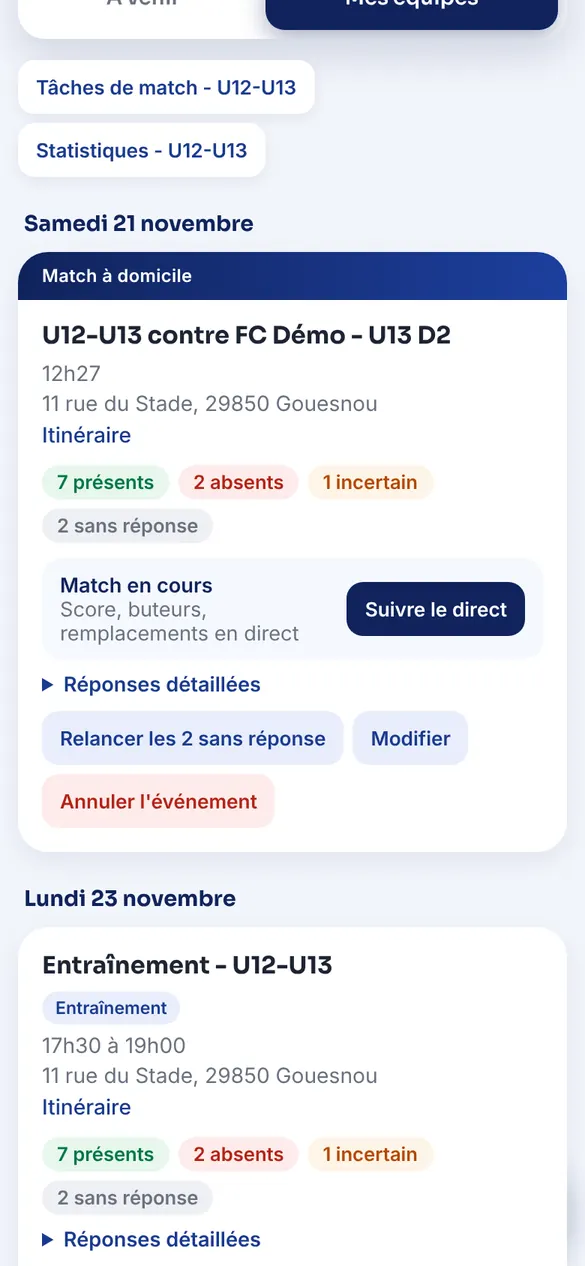
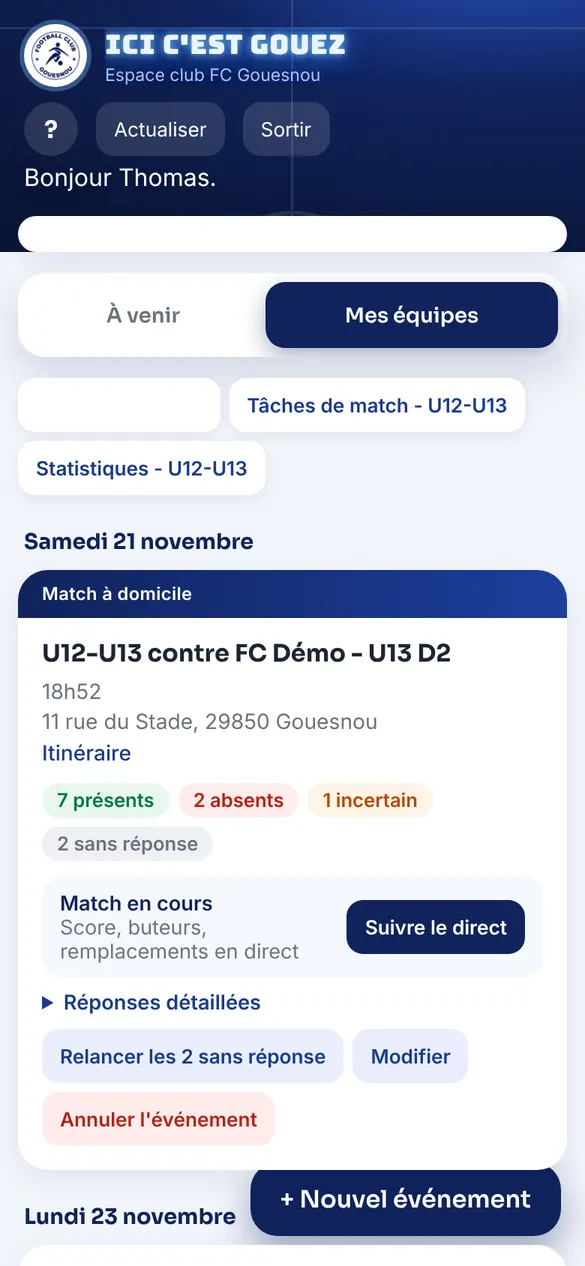
Espace club 0.37 : bouton « Matchs passés » (direct, photos et composition des matchs joués)
Claude-Session: https://claude.ai/code/session_01PpbBN6aLHnCFJhN9CD4hve

diff --git a/espace/index.html b/espace/index.html
@@ -6,7 +6,8 @@
          réponses aux convocations, vue coach (création d'événements, suivi des réponses,
          composition des équipes A, B, C d'une journée), application installable et notifications
   Fichiers liés : espace/partenaires.js, espace/attestations.js, espace/manifest.webmanifest, espace/sw.js, espace/icone-*.png
-  Version : 0.36 - 21/11/2026 - modules chargés à la demande : Partenaires et Attestations seulement pour les rôles concernés, aide et direct au premier usage
+  Version : 0.37 - 21/11/2026 - bouton « Matchs passés » (À venir et Mes équipes) : direct, photos et composition des matchs déjà joués
+            0.36 - 21/11/2026 - modules chargés à la demande : Partenaires et Attestations seulement pour les rôles concernés, aide et direct au premier usage
             0.35 - 21/11/2026 - photos du match (bouton « 📷 Photos » du direct) : dépôt par l'équipe, validation par l'encadrement
             0.34.1 - 21/11/2026 - iPhone : plus de zoom automatique en touchant un champ (écran trop large après une saisie)
             0.34 - 21/11/2026 - aide illustrée : captures d'écran dans les rubriques, agrandissables
@@ -688,7 +689,7 @@
     import { createClient } from 'https://cdn.jsdelivr.net/npm/@supabase/supabase-js@2/+esm';
     // Modules chargés à la demande (seulement pour les rôles concernés, ou au premier usage) :
     // un parent ne télécharge jamais les modules Partenaires et Attestations.
-    const MODULES = { partenaires: './partenaires.js?v=2.2', attestations: './attestations.js?v=1.1', aide: './aide.js?v=1.7', match: './match.js?v=1.2' };
+    const MODULES = { partenaires: './partenaires.js?v=2.2', attestations: './attestations.js?v=1.1', aide: './aide.js?v=1.8', match: './match.js?v=1.2' };
     const ROLES_PARTENAIRES = ['admin', 'codir', 'partenaires', 'secretariat', 'finances'];
     const ROLES_ATTESTATIONS = ['admin', 'finances', 'secretariat'];
 
@@ -699,7 +700,7 @@
     const PAGE_CONTACT = 'https://fcgouesnou.github.io/#contact';
     const FUSEAU = 'Europe/Paris';
     // Version de l'application : à changer ici ET dans espace/version.json à chaque publication
-    const VERSION_APPLI = '0.36';
+    const VERSION_APPLI = '0.37';
 
     const sbReel = createClient(SUPABASE_URL, SUPABASE_CLE, {
       auth: { flowType: 'pkce', detectSessionInUrl: true, persistSession: true }
@@ -1605,6 +1606,7 @@
       const mesEvt = new Set(E.convocations.map(c => c.evenement_id));
       const liste = E.evenements.filter(aVenir).filter(e => mesEvt.has(e.id) || (E.coachees.has(e.equipe_id) && E.miennes.has(e.equipe_id)));
       if (!E.fiches.length) { zone.append(el('p', { class: 'vide' }, "Votre compte n'est relié à aucune fiche du club. Contactez-nous par la rubrique « Nous contacter » du site.")); return; }
+      if (E.miennes.size || E.coachees.size) zone.append(el('div', { class: 'taches-equipes' }, boutonMatchsPasses()));
       if (!liste.length) { zone.append(el('p', { class: 'vide' }, 'Aucun événement à venir pour le moment.')); return; }
       // Le prochain match (non annulé) est mis en vedette, puis retiré de la liste
       const prochain = liste.find(e => estMatch(e) && e.etat !== 'annule' && (new Date(e.debut) > new Date(Date.now() - 2 * 3600 * 1000) || (sansHeure(e) && cleJour(e.debut) === cleJour(new Date()))));
@@ -1620,6 +1622,34 @@
       }
     }
 
+    // ---------- Matchs passés : direct, photos et score des matchs déjà joués (120 derniers jours) ----------
+    function boutonMatchsPasses() {
+      return el('button', { class: 'mini principal', onclick: ouvrirMatchsPasses }, '⏮ Matchs passés');
+    }
+    async function ouvrirMatchsPasses() {
+      const ids = [...new Set([...E.miennes, ...E.coachees])];
+      const depuis = new Date(Date.now() - 120 * 86400 * 1000).toISOString();
+      const { data, error } = await sb.from('evenements').select('id, debut, equipe_id, adversaire, domicile, titre, type, etat')
+        .in('equipe_id', ids).in('type', ['match', 'tournoi']).neq('etat', 'annule')
+        .gte('debut', depuis).lt('debut', new Date().toISOString()).order('debut', { ascending: false }).limit(60);
+      if (error) { toast('Erreur : ' + error.message); return; }
+      ouvrirFenetre('Matchs passés', (f) => {
+        f.append(el('p', { class: 'petit' }, 'Touchez un match pour retrouver son direct, ses photos et sa composition.'));
+        if (!data.length) { f.append(el('p', { class: 'vide' }, 'Aucun match joué ces quatre derniers mois.')); }
+        let mois = '';
+        for (const m of data) {
+          const mo = new Intl.DateTimeFormat('fr-FR', { timeZone: FUSEAU, month: 'long', year: 'numeric' }).format(new Date(m.debut));
+          if (mo !== mois) { mois = mo; f.append(el('h4', { class: 'p-titre' }, mo.charAt(0).toUpperCase() + mo.slice(1))); }
+          const eq = (E.equipes.get(m.equipe_id) || {}).nom || '';
+          f.append(el('button', { class: 'p-ligne', onclick: () => MT.ouvrirDirect(m.id) },
+            el('div', { class: 'p-ligne-nom' }, eq + (m.adversaire ? (m.domicile === false ? ' chez ' : ' contre ') + m.adversaire : ''),
+              el('small', {}, jourDe(m.debut) + (m.titre ? ' · ' + m.titre : ''))),
+            el('span', { class: 'stats-res nd' }, '⚽ 📷')));
+        }
+        f.append(el('div', { class: 'boutons' }, el('button', { class: 'btn secondaire', onclick: fermerFenetre }, 'Fermer')));
+      });
+    }
+
     // ---------- Vue coach ----------
     async function afficherCoach() {
       const zone = $('vueCoach'); zone.replaceChildren();
@@ -1627,8 +1657,8 @@
       // Tâches de match de chaque équipe coachée (lavage, matériel, vestiaire...)
       const eqs = [...E.coachees].map(id => E.equipes.get(id)).filter(Boolean);
       if (eqs.length) zone.append(el('div', { class: 'taches-equipes' },
-        eqs.flatMap(q => [el('button', { class: 'mini', onclick: () => gererTaches(q.id) }, 'Tâches de match - ' + q.nom),
-          el('button', { class: 'mini', onclick: () => MT.ouvrirStats(q.id, q.nom) }, 'Statistiques - ' + q.nom)])));
+        [boutonMatchsPasses()].concat(eqs.flatMap(q => [el('button', { class: 'mini', onclick: () => gererTaches(q.id) }, 'Tâches de match - ' + q.nom),
+          el('button', { class: 'mini', onclick: () => MT.ouvrirStats(q.id, q.nom) }, 'Statistiques - ' + q.nom)]))));
       if (!liste.length) { zone.append(el('p', { class: 'vide' }, 'Aucun événement à venir. Créez-en un avec le bouton « + Nouvel événement ».')); return; }
       let jour = '';
       for (const evt of liste) {

diff --git a/espace/aide.js b/espace/aide.js
@@ -9,7 +9,8 @@
          Pendant un « Voir en tant que », l'aide suit le profil de la personne observée.
          Captures d'écran (dossier espace/aide, images WebP) : produites à partir de la vraie application
          avec des données fictives, régénérées à chaque version qui change l'apparence (IMAGES_VERSION).
-  Version : 1.7 - 21/11/2026 - photos du match dans la rubrique du direct
+  Version : 1.8 - 21/11/2026 - bouton « Matchs passés »
+            1.7 - 21/11/2026 - photos du match dans la rubrique du direct
             1.6 - 21/11/2026 - captures d'écran dans les rubriques (touchez une image pour l'agrandir)
             1.5 - 21/11/2026 - onglet « Signaler » : bug, évolution ou question, avec captures d'écran, suivi des demandes
             1.4 - 21/11/2026 - rubrique « Direct du match et statistiques »
@@ -84,6 +85,7 @@ export function initAide({ sb, el, ouvrirFenetre, fermerFenetre, toast, contexte
         ? 'Les vôtres sont visibles tout de suite ; celles des familles attendent votre accord : « Valider » ou « Refuser » (vous êtes prévenu par notification).'
         : 'Elles sont visibles de l\'équipe après validation du coach ; vous pouvez supprimer les vôtres tant qu\'elles ne sont pas validées.',
         ' Les photos sont réservées à l\'équipe et au club, et copiées chaque nuit dans le Drive photos du club.'),
+      P(B('⏮ Matchs passés'), ' (en haut de « À venir » et de « Mes équipes ») : retrouvez le direct, les photos et la composition des matchs déjà joués, sur les quatre derniers mois.'),
     ] },
     { id: 'equipes', titre: 'Mes équipes (coachs et dirigeants)', vues: ['coach'], pour: (p) => p.coach, captures: () => [['mes-equipes', 'Réponses détaillées, relance et modification']], contenu: () => [
       P('L\'onglet « Mes équipes » montre quatre semaines d\'événements avec les réponses détaillées, motifs compris.'),
@@ -156,7 +158,7 @@ export function initAide({ sb, el, ouvrirFenetre, fermerFenetre, toast, contexte
     ] },
   ];
   // Version des captures : à changer à chaque régénération, pour contourner le cache des téléphones
-  const IMAGES_VERSION = '0.35';
+  const IMAGES_VERSION = '0.37';
   function galerie(liste) {
     if (!liste || !liste.length) return null;
     return el('div', { class: 'aide-captures' }, liste.map(([nom, legende]) => {
